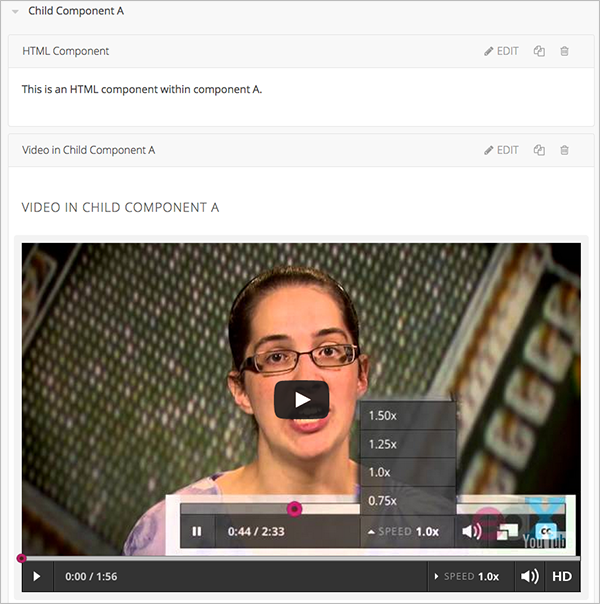
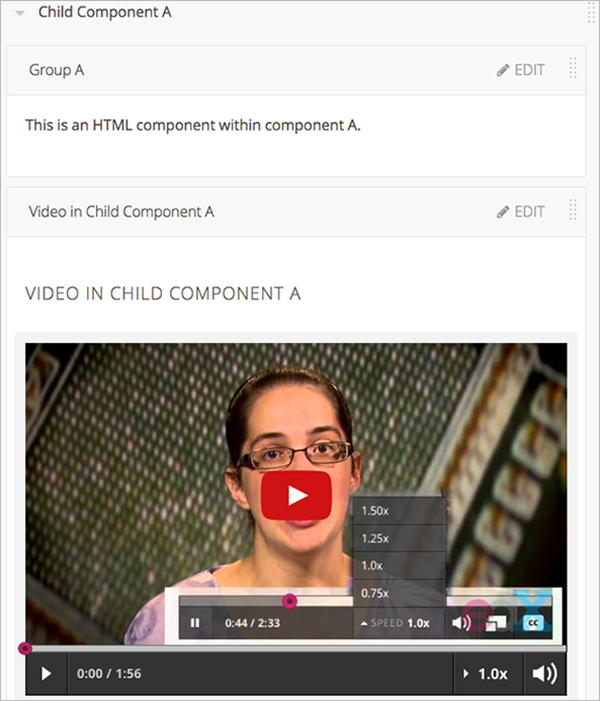
Drag and drop for child components

diff --git a/docs/en_us/course_authors/source/creating_content/organizing_course.rst b/docs/en_us/course_authors/source/creating_content/organizing_course.rst
@@ -423,16 +423,15 @@ Reorganize Your Course
 **********************
 
 You can reorganize your course by dragging and dropping sections, subsections,
-units, and components. You can move elements on the **Course Outline** page or
-on an individual unit page.
+units, components, and components within components. You can move elements on
+the **Course Outline** page or on an individual unit page.
 
 To move an element, hover over the element handle on the right side of the
 screen until the mouse pointer changes to a four-headed arrow. Then, click and
 drag the element to the location that you want.
 
 .. image:: ../Images/DragAndDropExample.png
- :alt: Image of the course outline, with the handle for a unit selected for drag
-     and drop
+ :alt: Image of the course outline, with the handle for a unit selected for  drag and drop
 
 When you move an element, a blue line indicates where the element will land when
 you release the mouse.
@@ -440,3 +439,25 @@ you release the mouse.
 .. image:: ../Images/DragAndDrop_BlueLine.png
  :alt: Image of the course outline, with a unit being dragged to a different
      location
+
+======================================
+Reorganizing Child Components
+======================================
+
+You can reorganize child components through the same drag and drop process you
+use for other objects in your course outline. You hover over the element handle
+on the right side of the screen until the mouse pointer changes to a four-headed arrow. Then, click and drag the element to the location that you want.
+
+Furthermore, when you have multiple levels of nesting, you can drag a child
+component into a different parent component, if both parents are expanded. For
+example, you can select the video component that is in Child Component A and
+drag it into Child Component B. Select the video component, and as you drag it
+into Child Component B, release the mouse button when a dashed outline of the
+component you are moving appears in the new location:
+
+.. image:: ../Images/drag_child_component.png
+ :alt: Image of dragging a child component to a new location
+
+You can also drag a child component outside of a parent, to make it at the same level as its parent.
+
+.. note:: For A/B tests, you can not drag a child component outside of a test group.
